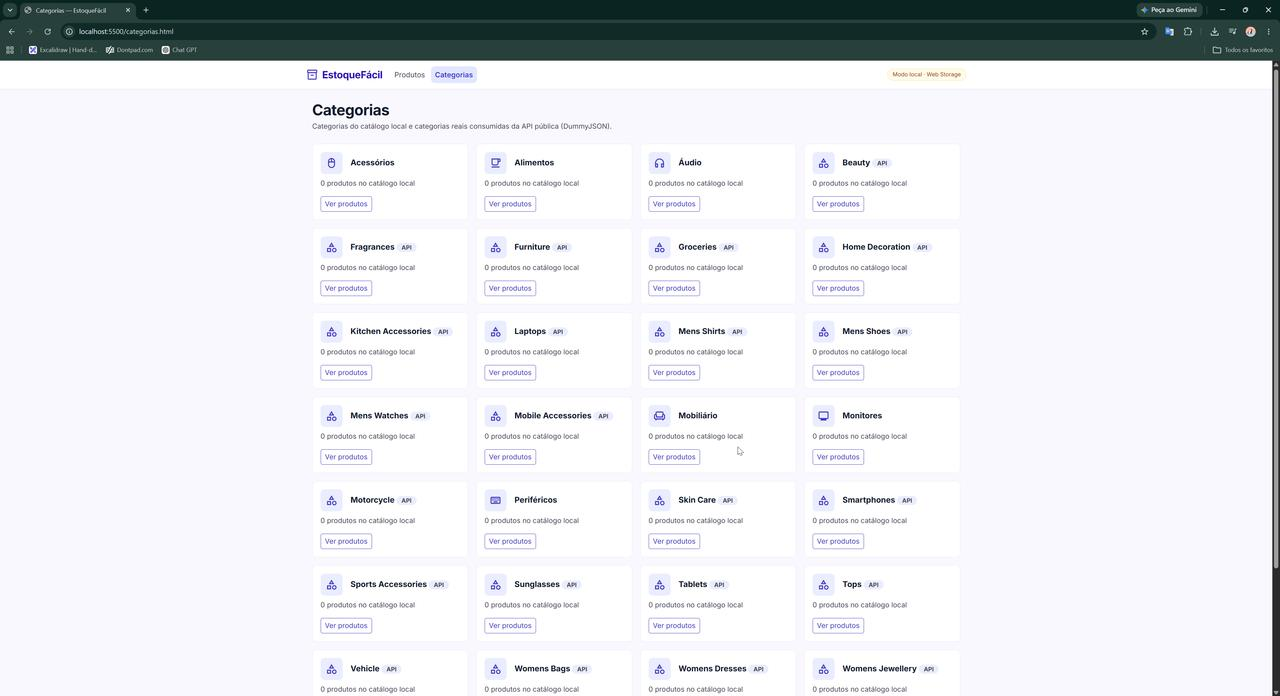
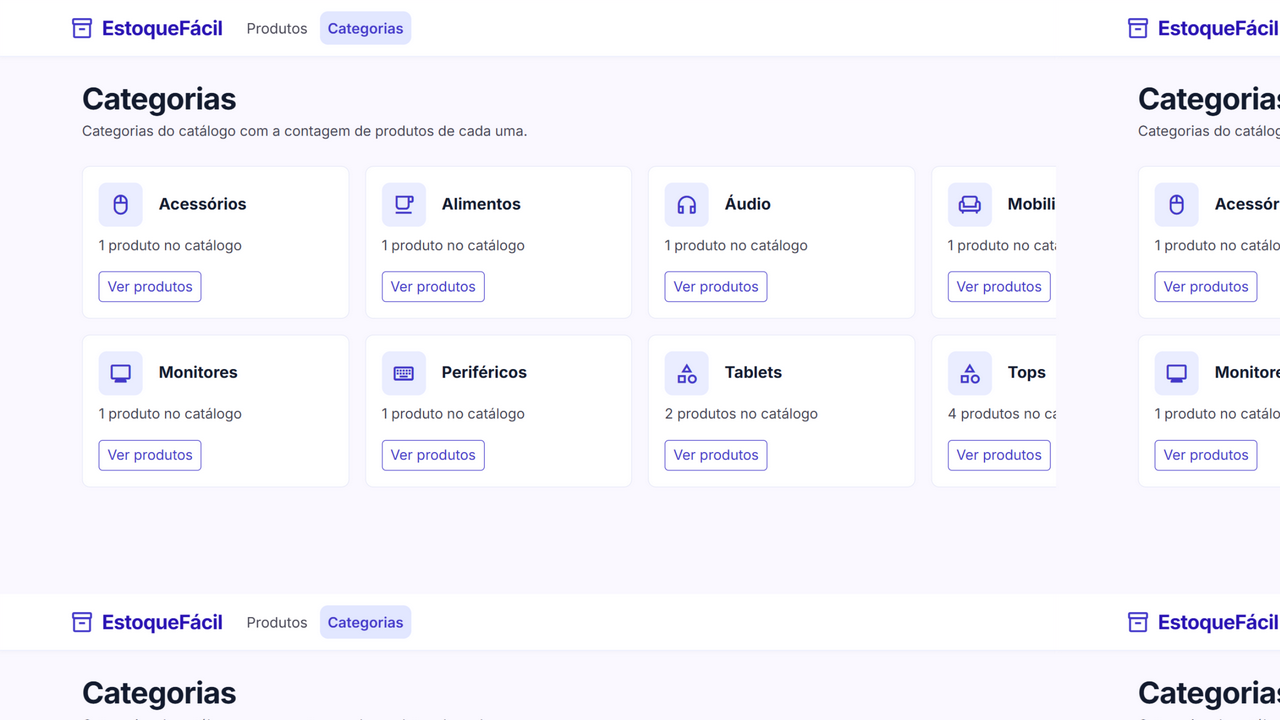
feat: pagina Categorias mostra apenas categorias do catalogo (JSON Server)
- remove a listagem de categorias da API publica DummyJSON na pagina
  (cards com selo API e 0 produtos confundiam o catalogo real)
- inclui categorias que so existem em produtos importados, com contagem
- DummyJSON permanece no botao Importar da API publica (evidencia ID 24)
- docs atualizados: PRD, spec, architecture, roteiro, README e screenshot

diff --git a/app/pages/categorias/categorias.js b/app/pages/categorias/categorias.js
@@ -1,6 +1,7 @@
 // =====================================================================
 // EstoqueFácil — página Categorias (app/pages/categorias/index.html)
-// Cards com categorias locais + categorias reais da DummyJSON (ID 24)
+// Cards com as categorias do catálogo (JSON Server) e contagem de
+// produtos por categoria
 // =====================================================================
 $(async function () {
   await Repositorio.verificarApiFake();
@@ -8,42 +9,33 @@ $(async function () {
 
   const $grade = $('#gradeCategorias').empty();
 
-  // Contagem local de produtos por categoria
+  // Produtos do catálogo (JSON Server com fallback para Web Storage)
   const produtos = await Repositorio.listarProdutos();
+
+  // Contagem de produtos por categoria
   const contagem = {};
   produtos.forEach(function (p) {
     const slug = p.categoriaSlug || slugify(p.categoria);
     contagem[slug] = (contagem[slug] || 0) + 1;
   });
 
-  // Categoria local sempre aparece; a pública é mesclada pelo slug
-  const categorias = {}; // slug -> { nome, icone, origem }
+  // Categorias cadastradas (entidade /categorias da API fake)
+  const categorias = {}; // slug -> { nome, icone }
   (await Repositorio.listarCategorias()).forEach(function (cat) {
     categorias[cat.slug] = {
       nome: cat.nome,
       icone: cat.icone || ICONE_PADRAO_CATEGORIA,
-      publica: false,
     };
   });
 
-  let apiFalhou = false;
-  try {
-    const publicas = await ApiPublica.categorias();
-    publicas.forEach(function (slug) {
-      if (!categorias[slug])
-        categorias[slug] = {
-          nome: capitalizar(slug),
-          icone: ICONE_PADRAO_CATEGORIA,
-          publica: true,
-        };
-    });
-  } catch (erro) {
-    console.error(erro);
-    apiFalhou = true;
-  }
-
-  // Tratamento de erro exibido ao usuário (ID 24)
-  if (apiFalhou) $('#alertaApi').removeClass('d-none');
+  // Categorias que só existem em produtos (ex.: importados), para a
+  // página refletir exatamente o que o catálogo tem
+  produtos.forEach(function (p) {
+    const slug = p.categoriaSlug || slugify(p.categoria);
+    if (!categorias[slug]) {
+      categorias[slug] = { nome: p.categoria, icone: ICONE_PADRAO_CATEGORIA };
+    }
+  });
 
   // Montagem dos cards com criação de elementos via DOM (manipulação dinâmica)
   Object.keys(categorias)
@@ -60,19 +52,10 @@ $(async function () {
         $('<span>', { class: 'material-symbols-outlined' }).text(cat.icone)
       );
       const $titulo = $('<h2>', { class: 'h6 fw-bold mb-0 flex-grow-1' }).text(cat.nome);
-      if (cat.publica) {
-        $titulo.append(
-          ' ',
-          $('<span>', {
-            class: 'badge-categoria',
-            title: 'Categoria vinda da API pública DummyJSON',
-          }).text('API')
-        );
-      }
       $cabecalho.append($icone, $titulo);
 
       const $info = $('<p>', { class: 'small text-muted-app mb-3' }).text(
-        total === 1 ? '1 produto no catálogo local' : total + ' produtos no catálogo local'
+        total === 1 ? '1 produto no catálogo' : total + ' produtos no catálogo'
       );
 
       const $botao = $('<a>', {

diff --git a/app/pages/categorias/index.html b/app/pages/categorias/index.html
@@ -25,14 +25,8 @@
     <div class="d-flex flex-column flex-sm-row justify-content-between align-items-sm-center gap-3 mb-4">
       <div>
         <h1 class="page-title mb-1">Categorias</h1>
-        <p class="text-muted-app small mb-0">Categorias do catálogo local e categorias reais consumidas da API pública (DummyJSON).</p>
+        <p class="text-muted-app small mb-0">Categorias do catálogo com a contagem de produtos de cada uma.</p>
       </div>
-    </div>
-
-    <!-- Aviso de falha na API pública (tratamento de erros — ID 24) -->
-    <div class="alert alert-warning d-flex align-items-center gap-2 d-none" id="alertaApi" role="alert">
-      <span class="material-symbols-outlined" style="font-size:20px">wifi_off</span>
-      <div>Não foi possível contatar a API pública agora. Exibindo apenas as categorias locais.</div>
     </div>
 
     <!-- Grade de cards (grid responsivo do Bootstrap: row-cols) -->

diff --git a/docs/architecture.md b/docs/architecture.md
@@ -113,8 +113,9 @@ própria. O mapa `$status-cores` + `@each` gera as classes `.badge-estoque-*`.
 
 ### Categoria (`db/categorias`)
 
-`{ id, slug, nome, icone }` — as categorias da API pública são mescladas pelo
-`slug` na página Categorias (selo "API").
+`{ id, slug, nome, icone }` — exibidas na página Categorias com a contagem de
+produtos de cada uma (categorias presentes apenas em produtos importados
+também aparecem).
 
 ## 5. Contratos de API
 
@@ -134,10 +135,9 @@ própria. O mapa `$status-cores` + `@each` gera as classes `.badge-estoque-*`.
 | Operação | Endpoint | Uso |
 | --- | --- | --- |
 | Importar produtos | `GET /products?limit&skip&select=...` | Botão "Importar da API pública" |
-| Categorias reais | `GET /products/category-list` | Página Categorias |
 
 Falhas de rede são capturadas (`try/catch` + *timeout*) e reportadas por toast
-ou alerta na página (ID 24).
+na página (ID 24).
 
 ## 6. Fluxos de tela
 
@@ -147,8 +147,8 @@ ou alerta na página (ID 24).
 - **app/pages/produto/index.html** — popula categorias → modo edição via `?id=` →
   máscaras → validação (nativa + Regex) com `is-invalid`/`is-valid` → salva →
   toast via `sessionStorage` → redireciona.
-- **app/pages/categorias/index.html** — categorias locais + contagem de produtos →
-  mescla categorias da API pública → cards (Bootstrap `row-cols-*`) com link
+- **app/pages/categorias/index.html** — categorias do catálogo + contagem de
+  produtos → cards (Bootstrap `row-cols-*`) com link
   `../../index.html?categoria=slug`.
 
 ## 7. Ferramentas de desenvolvimento

diff --git a/docs/roteiro-video.md b/docs/roteiro-video.md
@@ -205,7 +205,7 @@
 | Por que Bootstrap e não Materialize/Bulma? | Painel admin precisa de tabela, modal, formulário e badges prontos; Bootstrap tem o conjunto mais completo, a melhor documentação e customização via variáveis CSS. |
 | Onde está o Sass no projeto? | `scss/_tokens.scss` (tokens compartilhados) + um SCSS por página, compilados para `app/` com `npm run sass`; tem variáveis de token, a função `rem()`, mixins e o `@each` que gera os badges de status. |
 | Como funciona o fallback? | `app/service/api.service.js`: cada operação tenta o JSON Server com timeout; se falhar, o repositório grava/lê no `localStorage` e ativa o selo de modo local. |
-| O que acontece se a DummyJSON cair? | `try/catch` com timeout: o botão de importar mostra toast de erro e a página de categorias exibe alerta e só as categorias locais. |
+| O que acontece se a DummyJSON cair? | `try/catch` com timeout: o botão de importar mostra toast de erro e a operação é abortada sem afetar o catálogo. |
 | Onde estão as Regex? | `app/model/produto.js` (objeto `REGEX`: SKU, moeda, e-mail, telefone) aplicadas no `app/pages/produto/produto.js`. |
 | Por que jQuery e JavaScript puro juntos? | RA4 pede jQuery para DOM/eventos/animações (e o plugin de máscara); as requisições usam `fetch`/async-await, que é o padrão atual do RA5. |
 | Duas entidades na API fake? | `produtos` e `categorias` no `db/db.json`, servidas pelo JSON Server. |

diff --git a/README.md b/README.md
@@ -71,7 +71,7 @@ Para entender as regras de negócio, o escopo e a arquitetura técnica da aplica
 
 - [x] ID 22 - Realiza requisições assíncronas para uma API fake (ex.: JSON Server) para persistir dados de um formulário. → `fetch`/`async-await` com `POST`/`PUT /produtos`
 - [x] ID 23 - Realiza requisições assíncronas para uma API fake para exibir dados na página. → `fetch`/`async-await` com `GET /produtos` na tabela
-- [x] ID 24 - Realiza requisições assíncronas para APIs públicas reais (OpenWeather, ViaCEP etc.), exibindo os dados e tratando erros. → **DummyJSON** (`/products`) com exibição de dados e tratamento de erros (timeout, toast/alerta)
+- [x] ID 24 - Realiza requisições assíncronas para APIs públicas reais (OpenWeather, ViaCEP etc.), exibindo os dados e tratando erros. → **DummyJSON** (`/products`) no botão "Importar da API pública": exibição dos dados importados e tratamento de erros (timeout + toast)
 
 ## 🚀 Manual de execução
 
@@ -109,7 +109,7 @@ Para entender as regras de negócio, o escopo e a arquitetura técnica da aplica
 
 ![Formulário de produto com validações](docs/telas/produto-validacao.png)
 
-### Categorias (locais + reais da API pública)
+### Categorias (do catálogo, com contagem de produtos)
 
 ![Página de categorias](docs/telas/categorias.png)
 

diff --git a/docs/spec.md b/docs/spec.md
@@ -54,13 +54,7 @@ inventário e operações de CRUD). Front-end **estático** — HTML + CSS + Jav
 
 | Endpoint | Uso no painel |
 | --- | --- |
-| `GET /products?limit={n}&skip={n}` | Paginação da tabela de inventário |
-| `GET /products/{id}` | Detalhe/edição de um produto |
-| `GET /products/search?q={termo}` | Busca por título/marca/descrição |
-| `GET /products/categories` | Filtro por categoria (dropdown) |
-| `GET /products/category/{slug}` | Listagem por categoria |
-| `GET /products?sortBy={campo}&order=asc\|desc` | Ordenação das colunas |
-| `POST /products/add` · `PUT /products/{id}` · `DELETE /products/{id}` | Operações de CRUD (simuladas) |
+| `GET /products?limit={n}&skip={n}&select={campos}` | Importação de produtos reais pelo botão "Importar da API pública" (ID 24) |
 
 ### Mapeamento do modelo de produto (API → tela)
 

diff --git a/docs/prd.md b/docs/prd.md
@@ -24,7 +24,7 @@ rápida e agradável de usar no computador e no celular.
 - Exclusão de produtos com modal de confirmação.
 - Importação de produtos reais de uma API pública (DummyJSON) para enriquecer o
   catálogo.
-- Página de categorias: categorias locais + categorias reais da API pública.
+- Página de categorias: categorias do catálogo com contagem de produtos por categoria.
 - Persistência em API fake (JSON Server) com fallback automático para Web Storage
   quando a API não está disponível (comportamento padrão na versão publicada no
   GitHub Pages).
